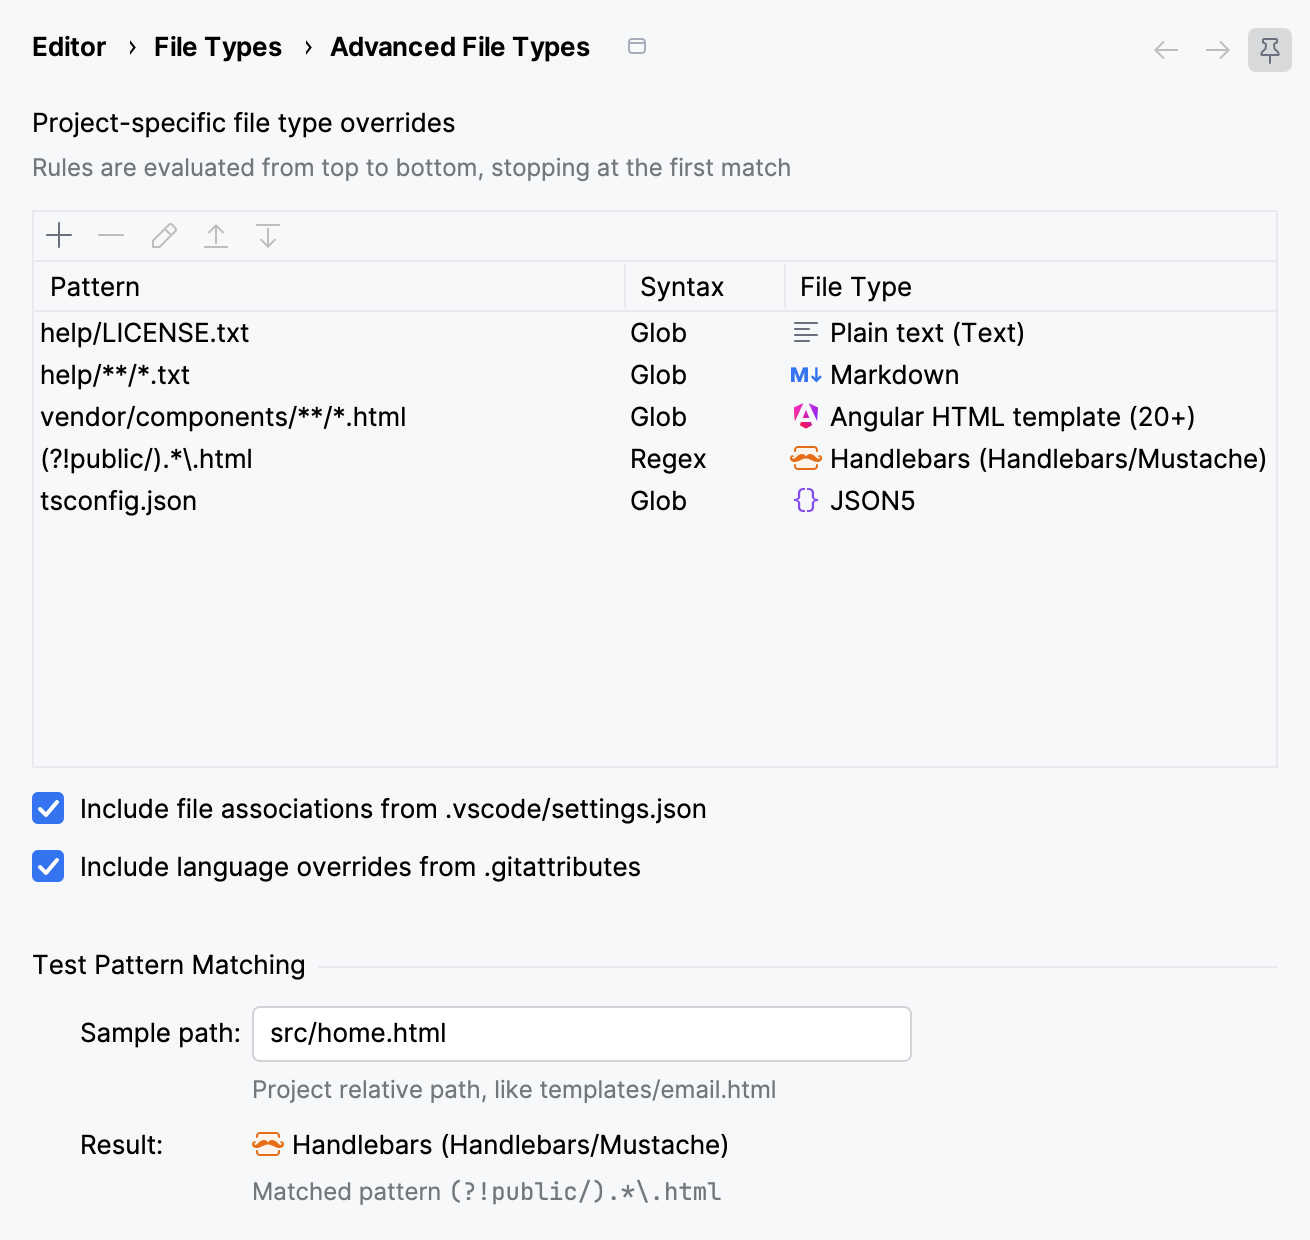
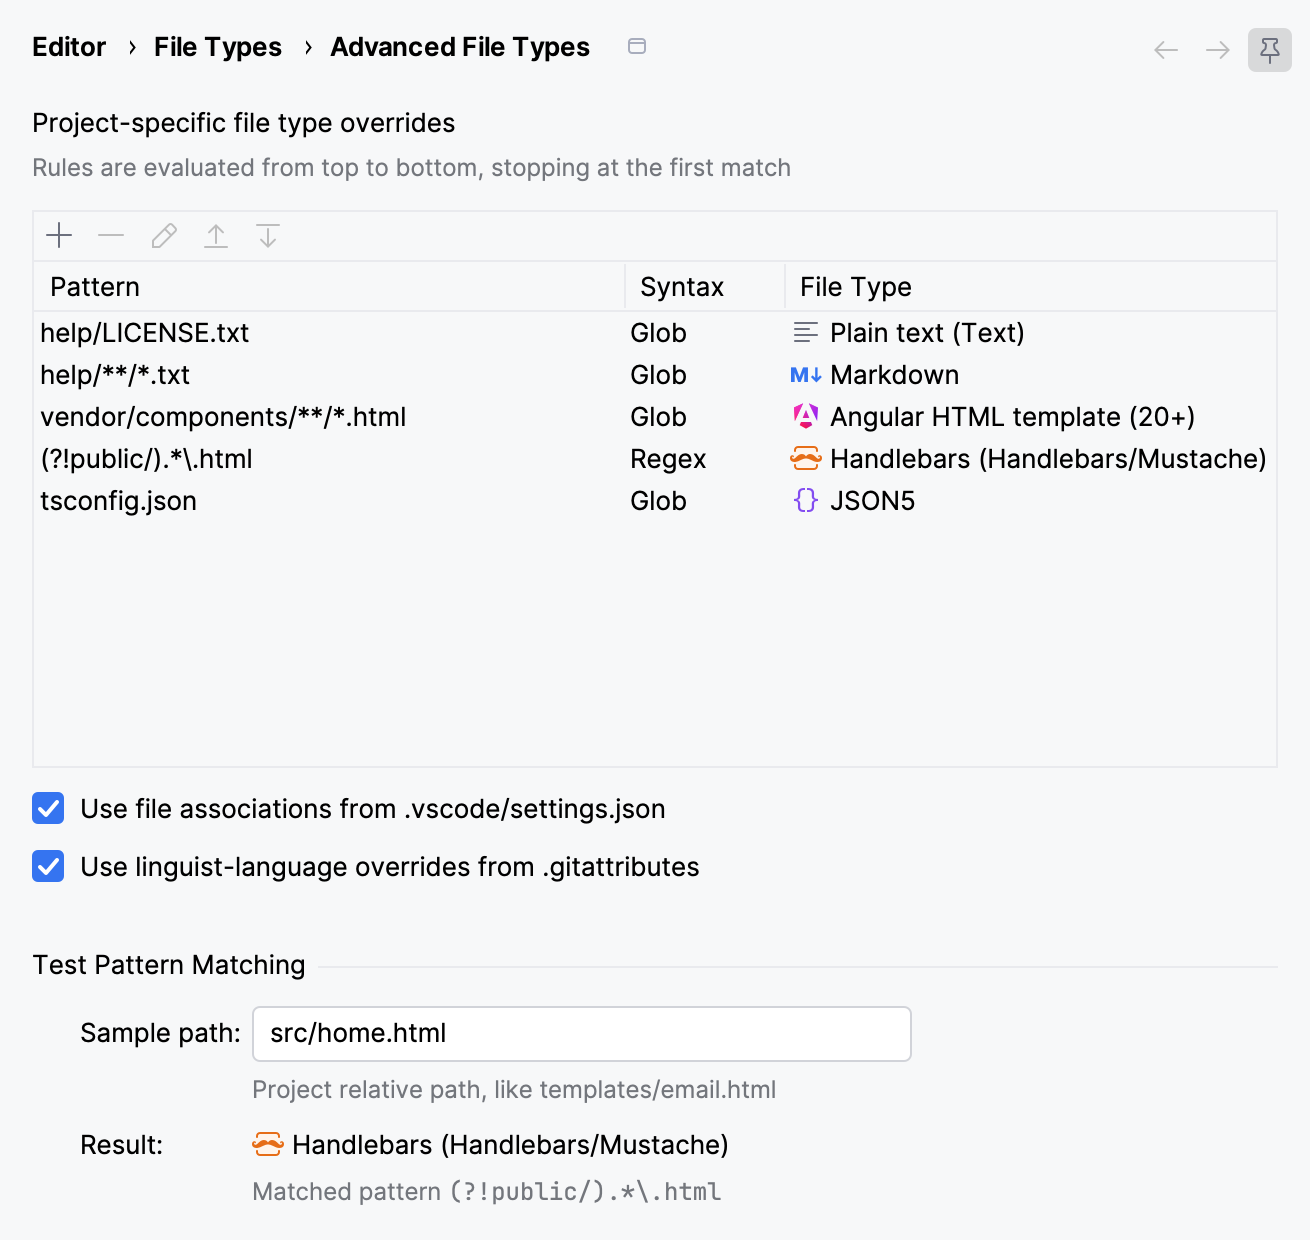
Improve checkbox labels

Changed region(s): [[0.0611, 0.6435, 0.5496, 0.7048]]

diff --git a/src/test/kotlin/com/medmunds/advancedfiletypes/AdvancedFileTypeTest.kt b/src/test/kotlin/com/medmunds/advancedfiletypes/AdvancedFileTypeTest.kt
@@ -532,28 +532,6 @@ class AdvancedFileTypeTest : BasePlatformTestCase() {
         dialog.disposeIfNeeded()
     }
 
-    fun testMessageBundleKeys() {
-        Assert.assertEquals("Advanced File Types", AdvancedFileTypesBundle.message("settings.displayName"))
-        Assert.assertEquals("Pattern", AdvancedFileTypesBundle.message("settings.table.column.pattern"))
-        Assert.assertEquals("Syntax", AdvancedFileTypesBundle.message("settings.table.column.syntax"))
-        Assert.assertEquals("File Type", AdvancedFileTypesBundle.message("settings.table.column.fileType"))
-        Assert.assertEquals("Include file associations from .vscode/settings.json", AdvancedFileTypesBundle.message("settings.includeVsCode"))
-        Assert.assertEquals("Glob", AdvancedFileTypesBundle.message("syntax.glob"))
-        Assert.assertEquals("Regex", AdvancedFileTypesBundle.message("syntax.regex"))
-        Assert.assertEquals("Glob", PatternSyntax.GLOB.displayName)
-        Assert.assertEquals("Regex", PatternSyntax.REGEX.displayName)
-        Assert.assertEquals("Add File Type Override Rule", AdvancedFileTypesBundle.message("dialog.title.add"))
-        Assert.assertEquals("Edit File Type Override Rule", AdvancedFileTypesBundle.message("dialog.title.edit"))
-        Assert.assertEquals("Pattern:", AdvancedFileTypesBundle.message("dialog.pattern.label"))
-        Assert.assertEquals("Syntax:", AdvancedFileTypesBundle.message("dialog.syntax.label"))
-        Assert.assertEquals("File Type:", AdvancedFileTypesBundle.message("dialog.fileType.label"))
-        Assert.assertEquals("Pattern cannot be empty", AdvancedFileTypesBundle.message("dialog.validation.pattern.empty"))
-        Assert.assertEquals("Invalid pattern syntax: bad", AdvancedFileTypesBundle.message("dialog.validation.pattern.invalid", "bad"))
-        Assert.assertEquals("Please select a file type", AdvancedFileTypesBundle.message("dialog.validation.fileType.empty"))
-        Assert.assertEquals("HTML (HTML files)", AdvancedFileTypesBundle.message("fileType.display.withDescription", "HTML", "HTML files"))
-        Assert.assertTrue(AdvancedFileTypesBundle.message("dialog.pattern.help").contains("Glob patterns"))
-    }
-
     fun testVsCodeSettingsReaderJsoncParsing() {
         val jsonc = """
             {
